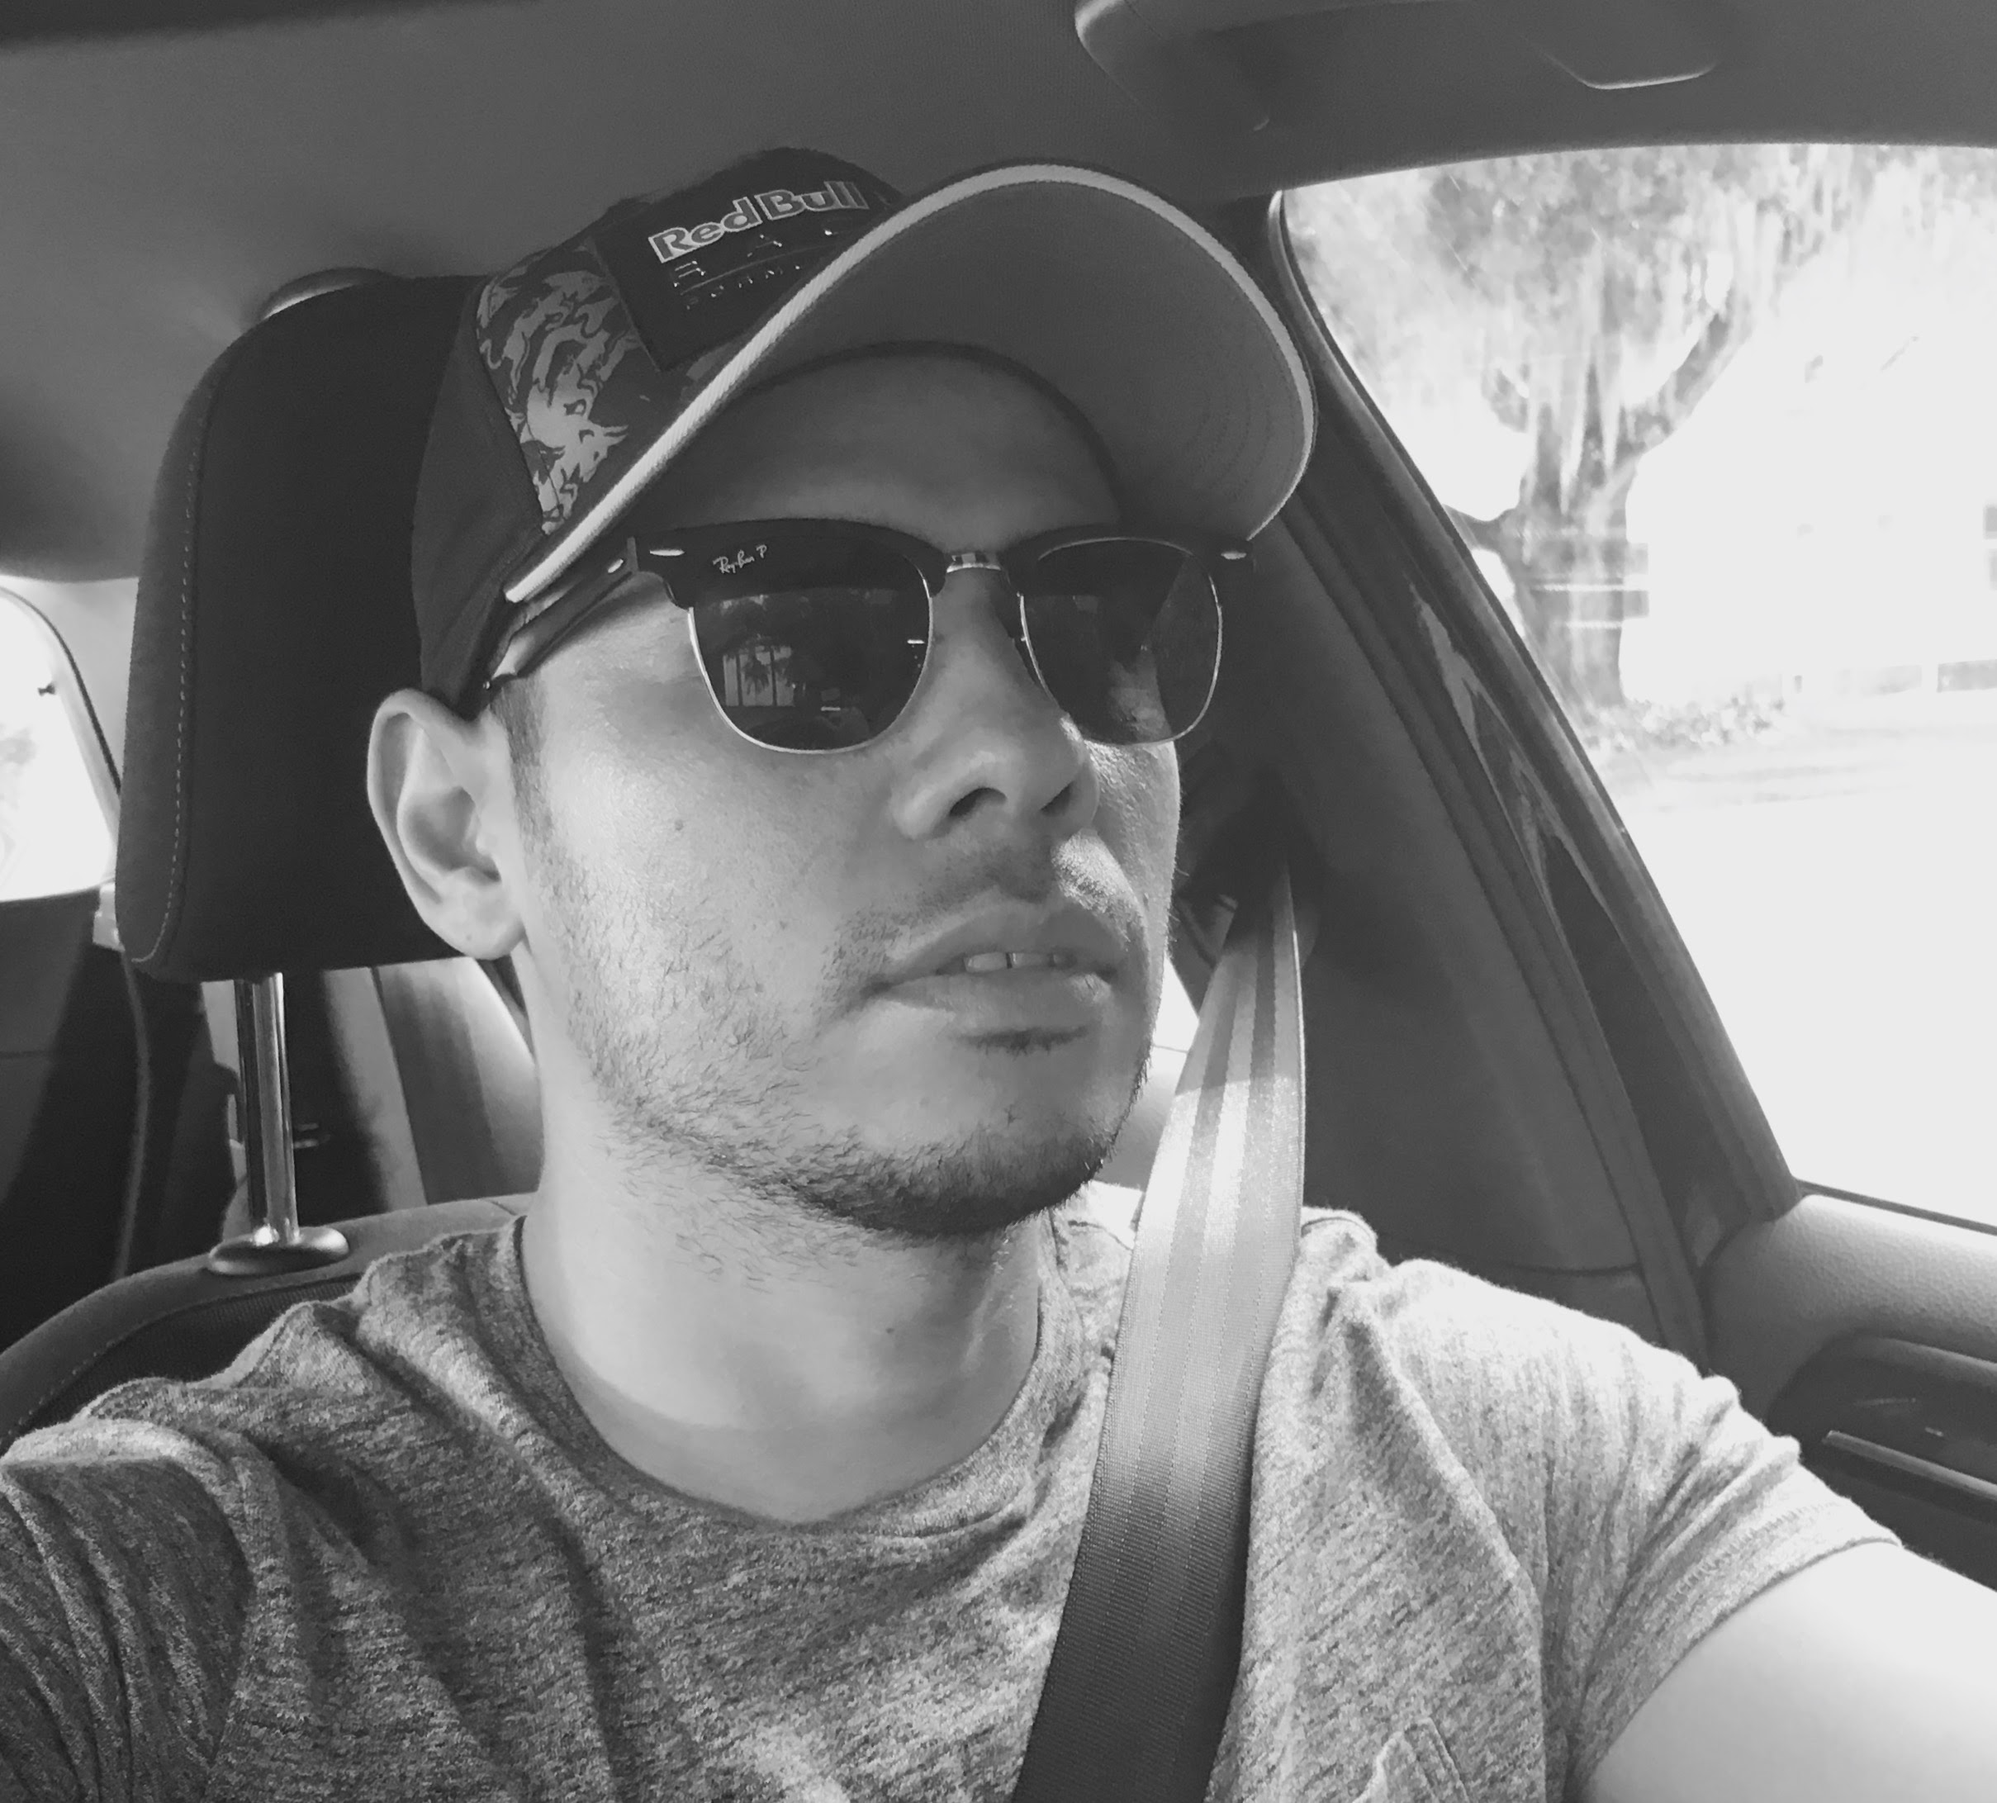
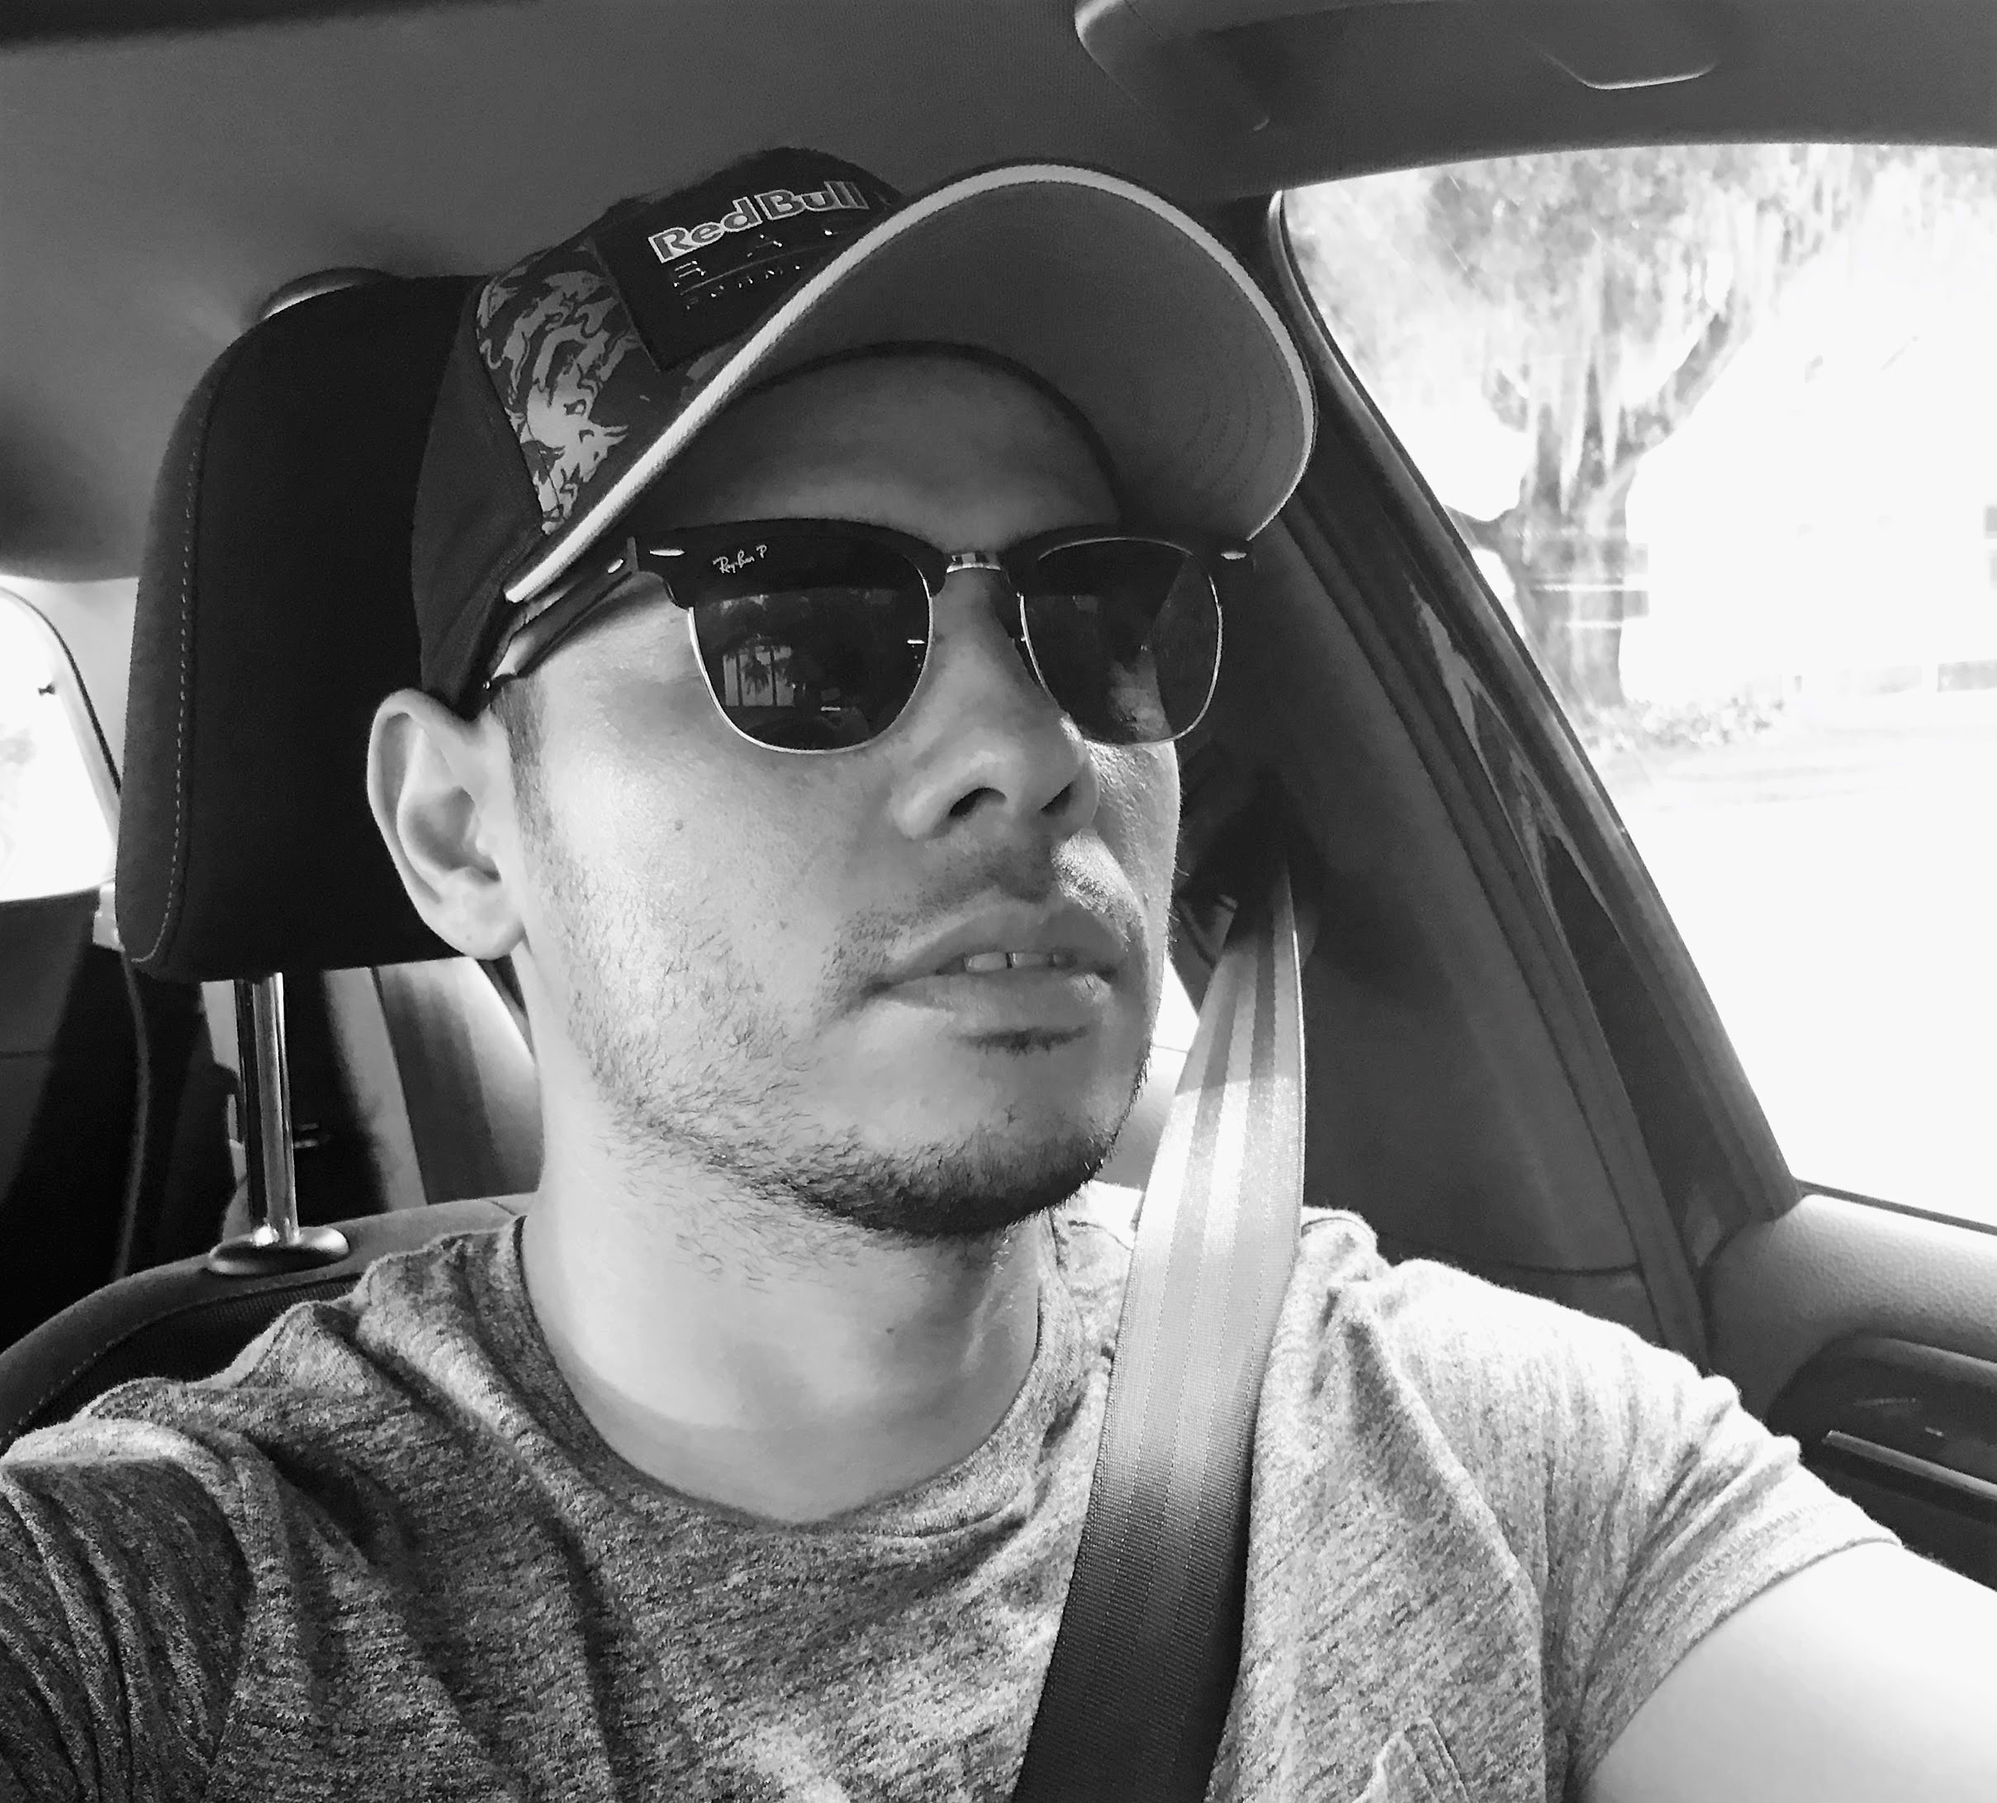
finally

diff --git a/index.html b/index.html
@@ -6,8 +6,8 @@
 	<title>portfolio</title>
 	<!--<link rel="stylesheet" type="text/css" href="assets/css/reset.css">-->
 	<link rel="stylesheet" type="text/css" href="assets/css/style.css">
-</head
->
+</head>
+
 <body>
 	<div id="pagewrap">
 
@@ -45,7 +45,7 @@
 
 			<h2>About Me</h2>
 			
-			<p><img id="me" src="assets/images/me.jpg" class="textwrap">Hey! My name is Israel but I go by Jakob. Born in West Texas, San Angelo to be exact. I currently live in Orlando. I like Orlando but am hoping to move by the end of the year. 
+			<p><img id="me" src="assets/images/me.png" class="textwrap">Hey! My name is Israel but I go by Jakob. Born in West Texas, San Angelo to be exact. I currently live in Orlando. I like Orlando but am hoping to move by the end of the year. 
 
 			Things I enjoyed doing when not coding. I like to run, go mountain biking, indoor rock climbing, play videogmes, watching sports, and hanging out with my girlfriend Mel. Some of my favorite foods include; Mexican, Chinese, Sushi, and sometimes a fat juicy steak!</p>
 
